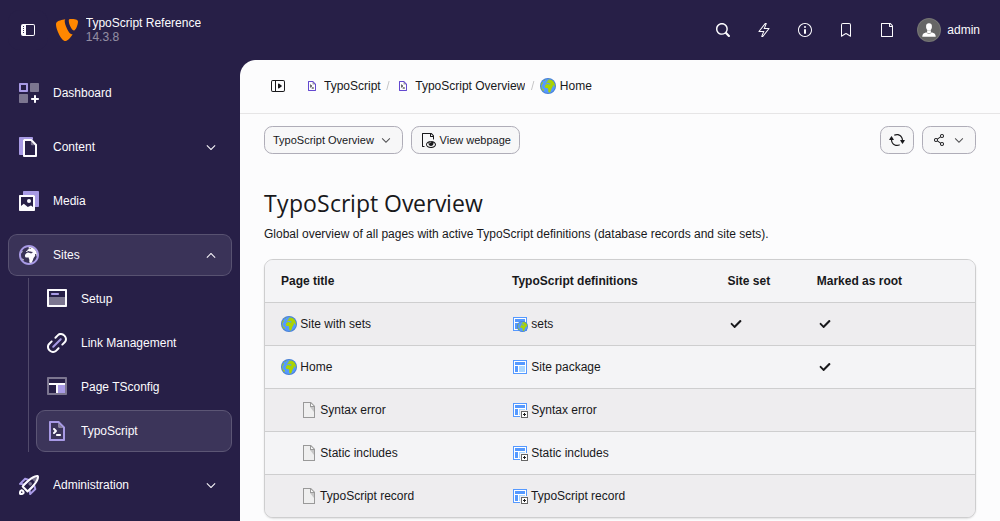
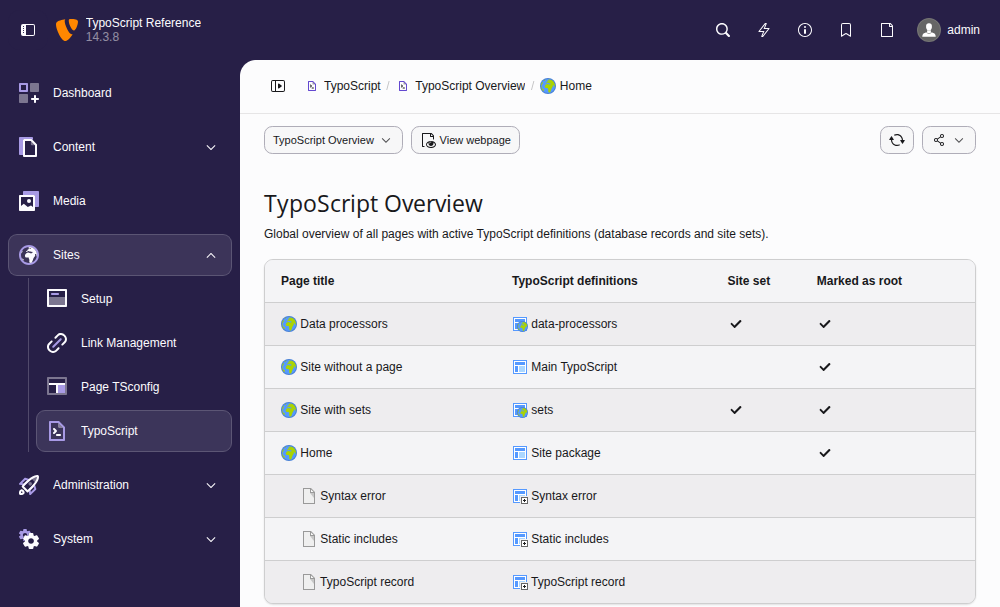
[TASK] Regenerate the TypoScript overview screenshot on 14.3
The backported examples add two sites, which the TypoScript overview now
lists. The alt text now names the columns of the table instead of only
the module.

Releases: 14.3
Assisted-by: Claude Opus 5.5 <noreply@anthropic.com>

diff --git a/Documentation/UsingSetting/Entering.rst b/Documentation/UsingSetting/Entering.rst
@@ -40,7 +40,9 @@ a TypoScript record or by having a
 :ref:`Site Set TypoScript provider <t3coreapi:site-sets-typoscript>`.
 
 ..  figure:: /Images/GeneratedScreenshots/TypoScriptModule/TypoScriptRecordsOverview.png
-    :alt: Screenshot of Submodule "TypoScript records overview" in the TYPO3 backend
+    :alt: Module "TypoScript Overview" with a table of the pages that have
+        TypoScript and the columns "Page title", "TypoScript definitions",
+        "Site set", and "Marked as root"
 
 If TypoScript was added by a record, it is linked.
 
